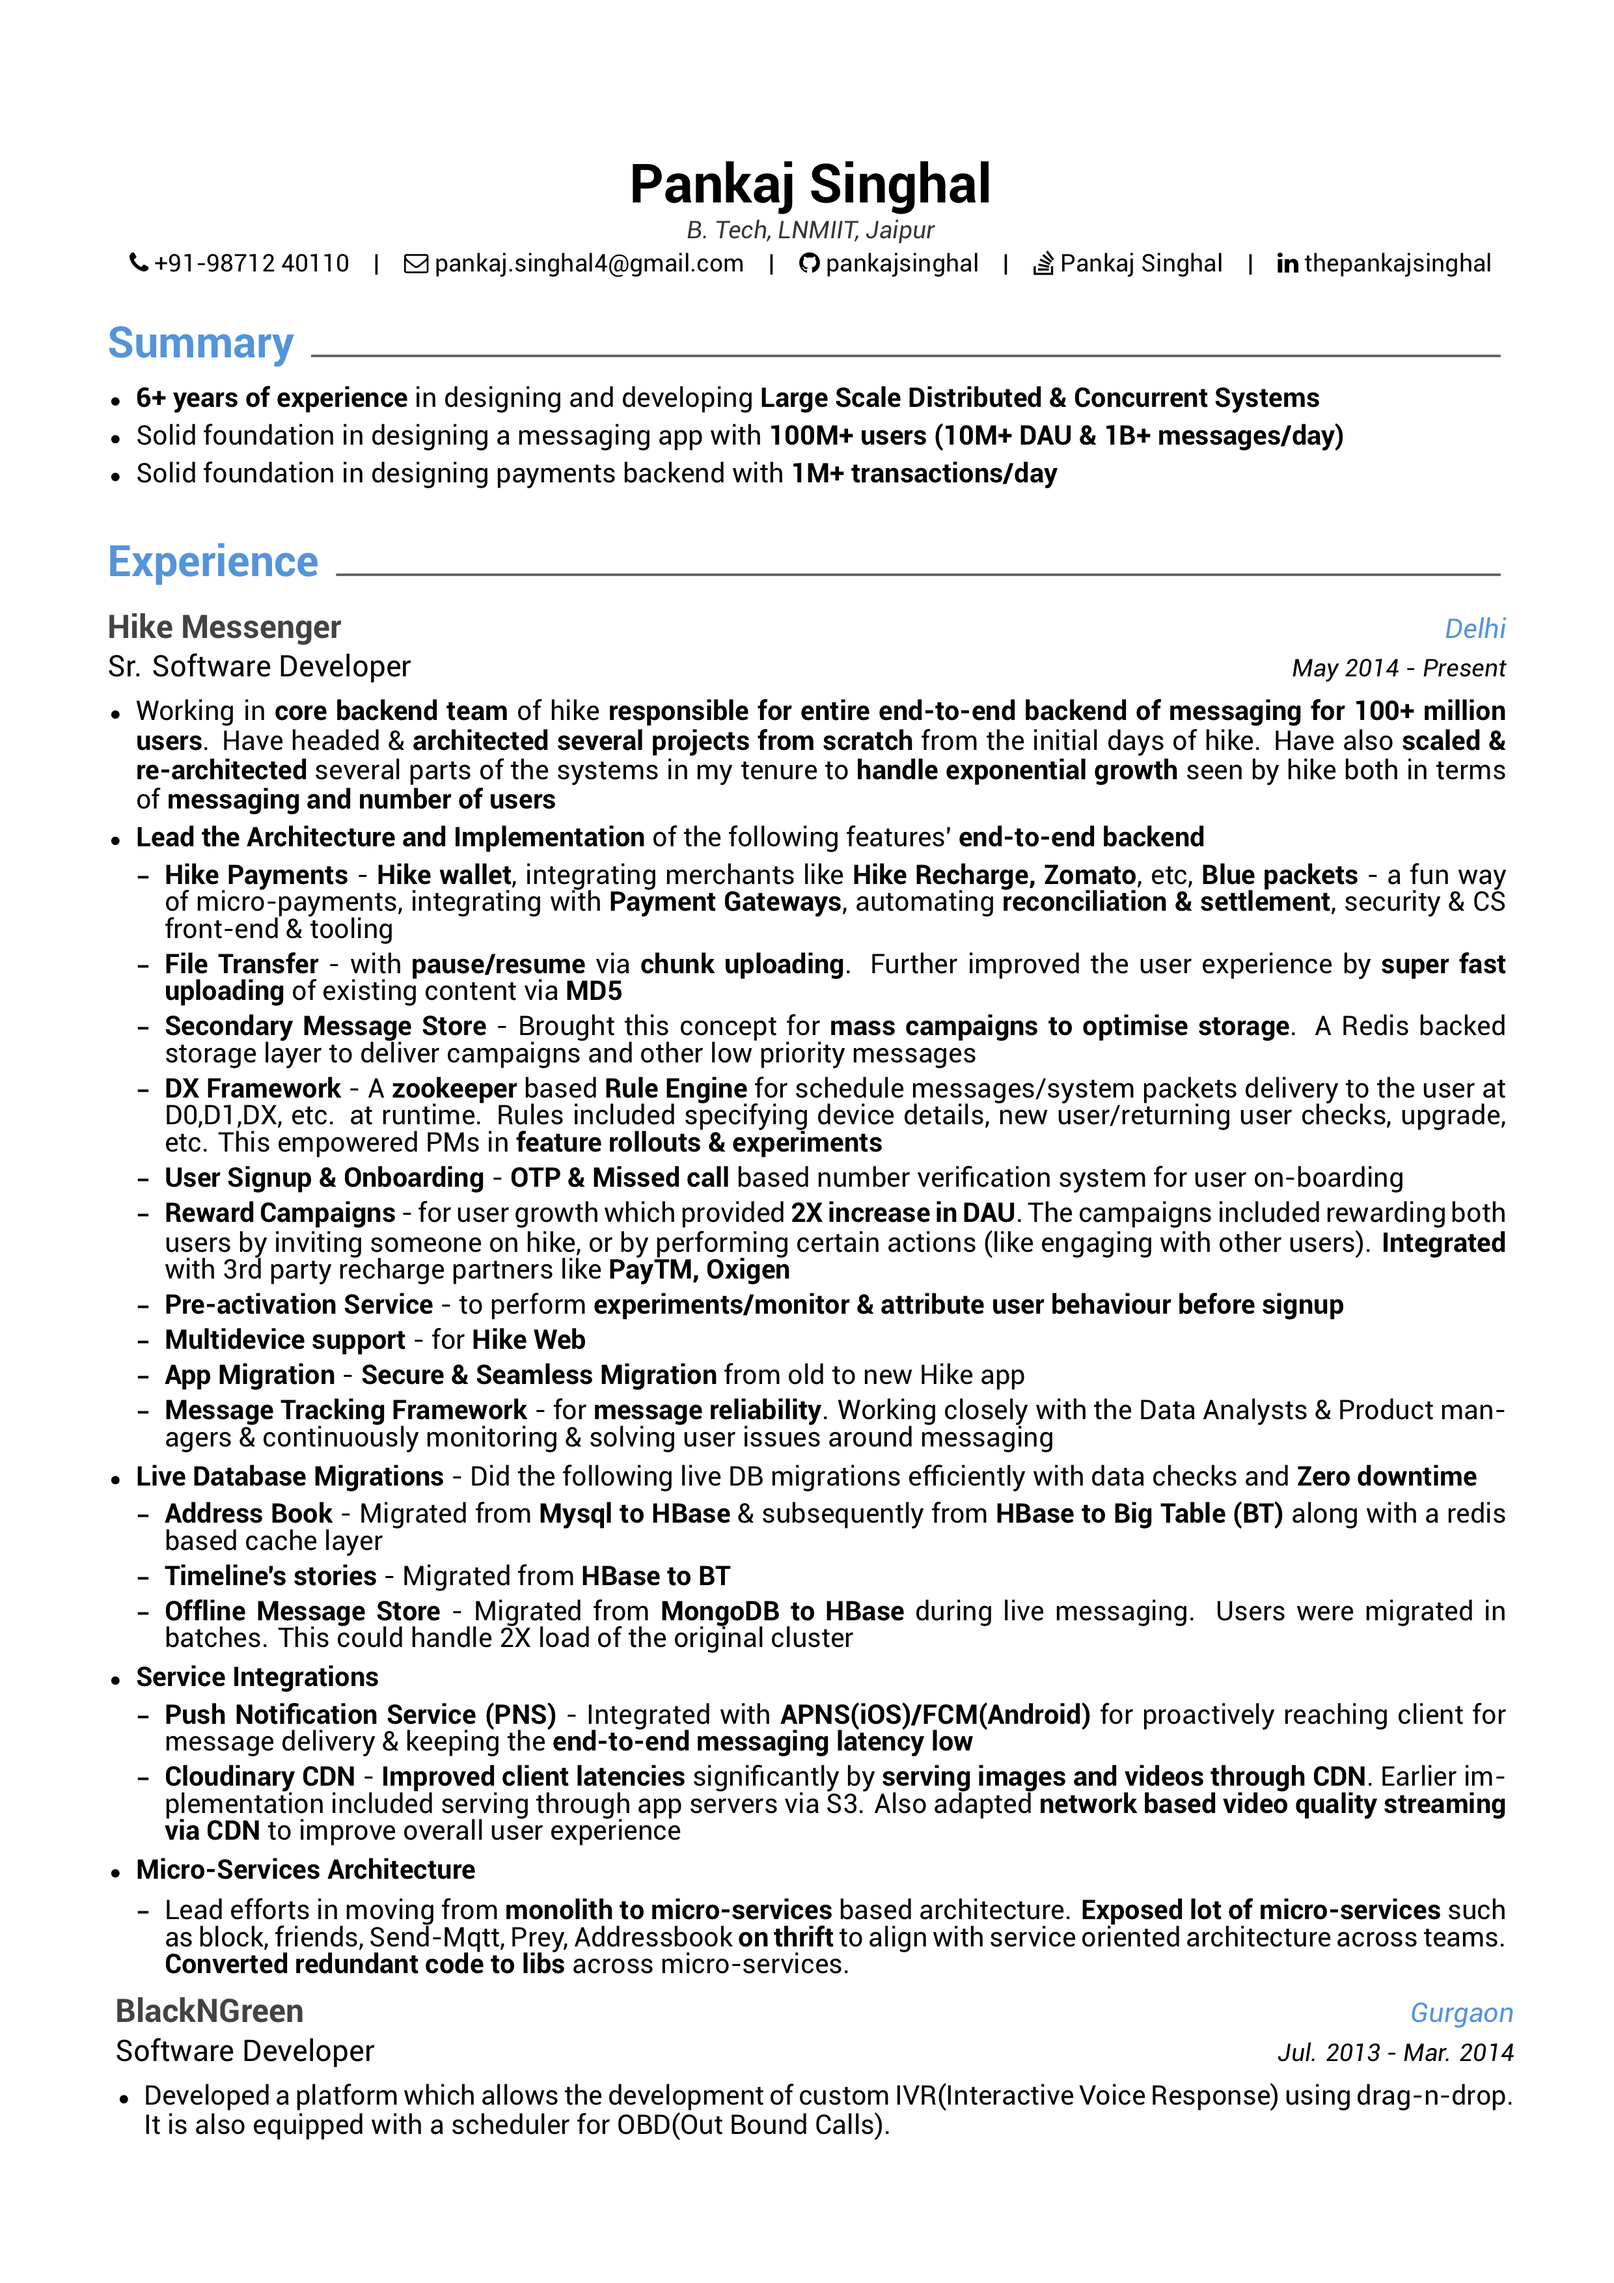
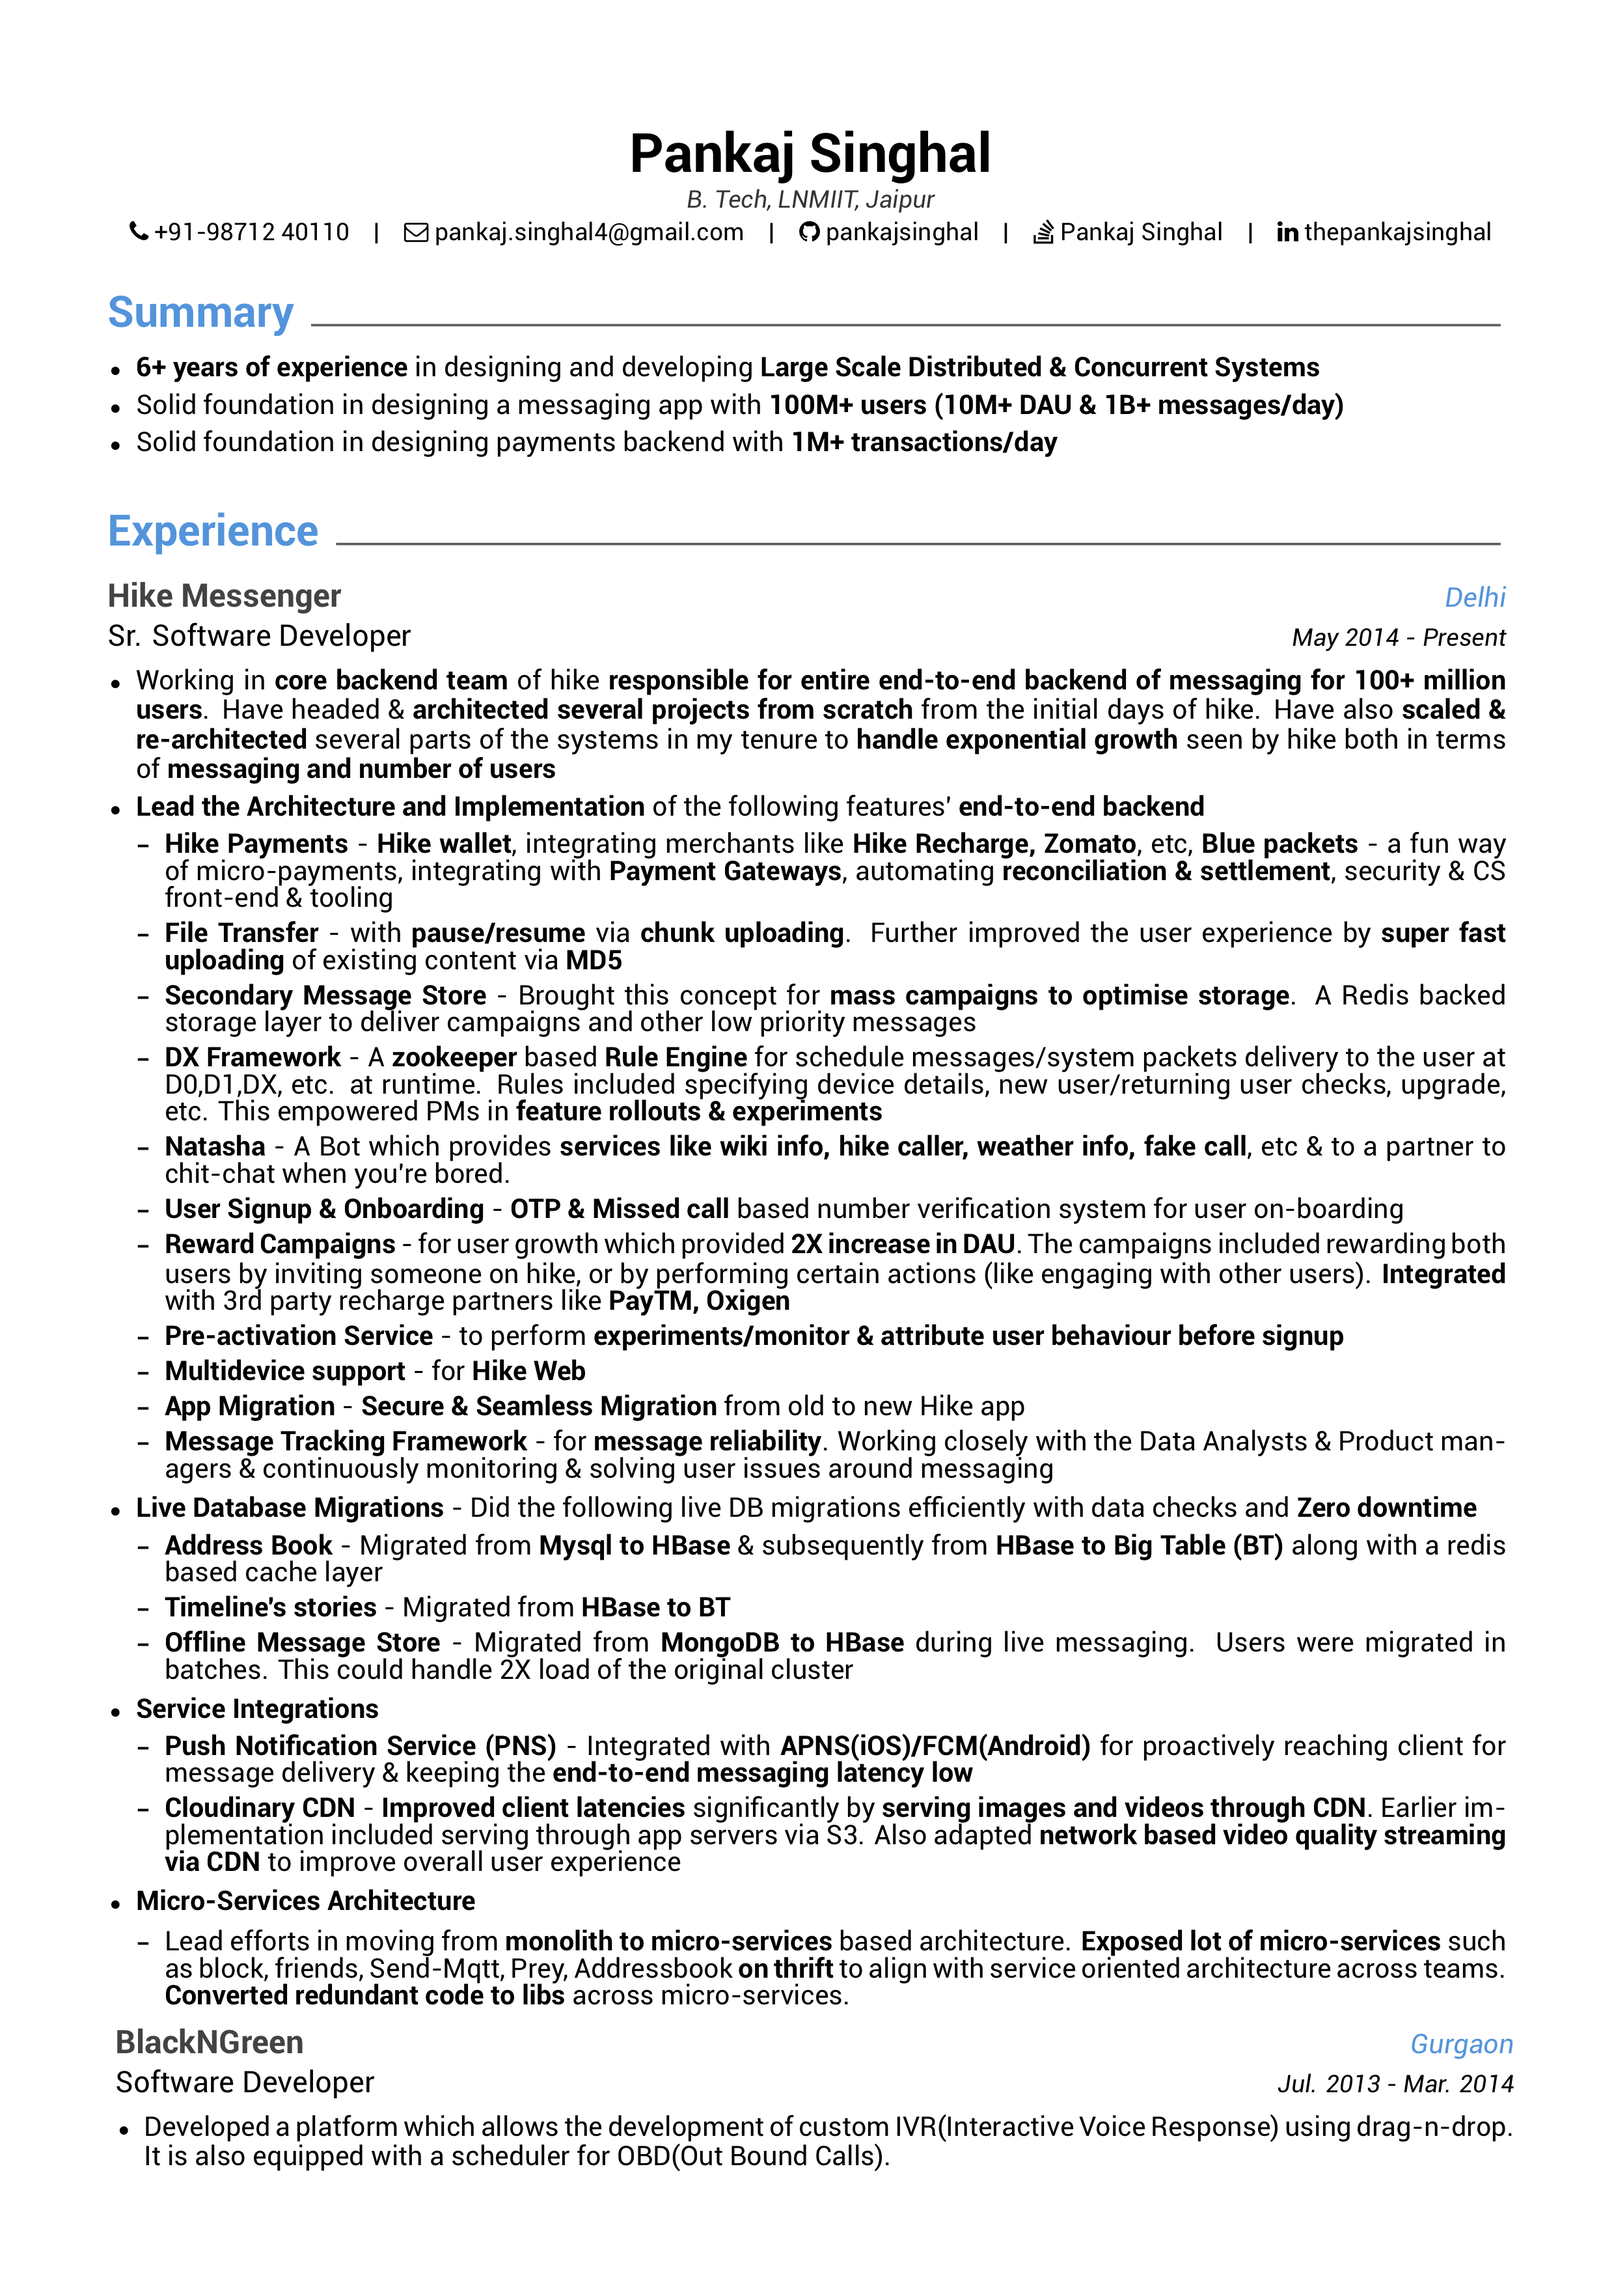
updated

Changed region(s): [[0.0621, 0.0932, 0.9315, 0.9635], [0.2484, 0.0622, 0.9315, 0.1243]]

diff --git a/resume/experience.tex b/resume/experience.tex
@@ -24,6 +24,7 @@
                 \item {\textbf{File Transfer} - with \textbf{pause/resume} via \textbf{chunk uploading}. Further improved the user experience by \textbf{super fast uploading} of existing content via \textbf{MD5}}
 		        \item {\textbf{Secondary Message Store} - Brought this concept for \textbf{mass campaigns to optimise storage}. A Redis backed storage layer to deliver campaigns and other low priority messages}
 		        \item {\textbf{DX Framework} - A \textbf{zookeeper} based \textbf{Rule Engine} for schedule messages/system packets delivery to the user at D0,D1,DX, etc. at runtime. Rules included specifying device details, new user/returning user checks, upgrade, etc. This empowered PMs in \textbf{feature rollouts \& experiments}}
+		        \item {\textbf{Natasha} - A Bot which provides \textbf{services like wiki info, hike caller, weather info, fake call}, etc \& to a partner to chit-chat when you're bored.}
 		        \item {\textbf{User Signup \& Onboarding} - \textbf{OTP \& Missed call} based number verification system for user on-boarding}
 		        \item {\textbf{Reward Campaigns} - for user growth which provided \textbf{2X increase in DAU}. The campaigns included rewarding both users by inviting someone on hike, or by performing certain actions (like engaging with other users). \textbf{Integrated} with 3rd party recharge partners like \textbf{PayTM, Oxigen}}
 		        \item {\textbf{Pre-activation Service} - to perform \textbf{experiments/monitor \& attribute user behaviour before signup}}
@@ -103,3 +104,4 @@
       \end{cvitems}
     }
 \end{cventries}
+

diff --git a/resume.tex b/resume.tex
@@ -24,7 +24,7 @@
 \documentclass[11pt, a4paper]{awesome-cv}
 
 % Configure page margins with geometry
-\geometry{left=1.4cm, top=.8cm, right=1.4cm, bottom=1.8cm, footskip=.5cm}
+\geometry{left=1.4cm, top=.4cm, right=1.4cm, bottom=1.4cm, footskip=.5cm}
 
 % Specify the location of the included fonts
 \fontdir[fonts/]
@@ -103,3 +103,4 @@
 
 %-------------------------------------------------------------------------------
 \end{document}
+
